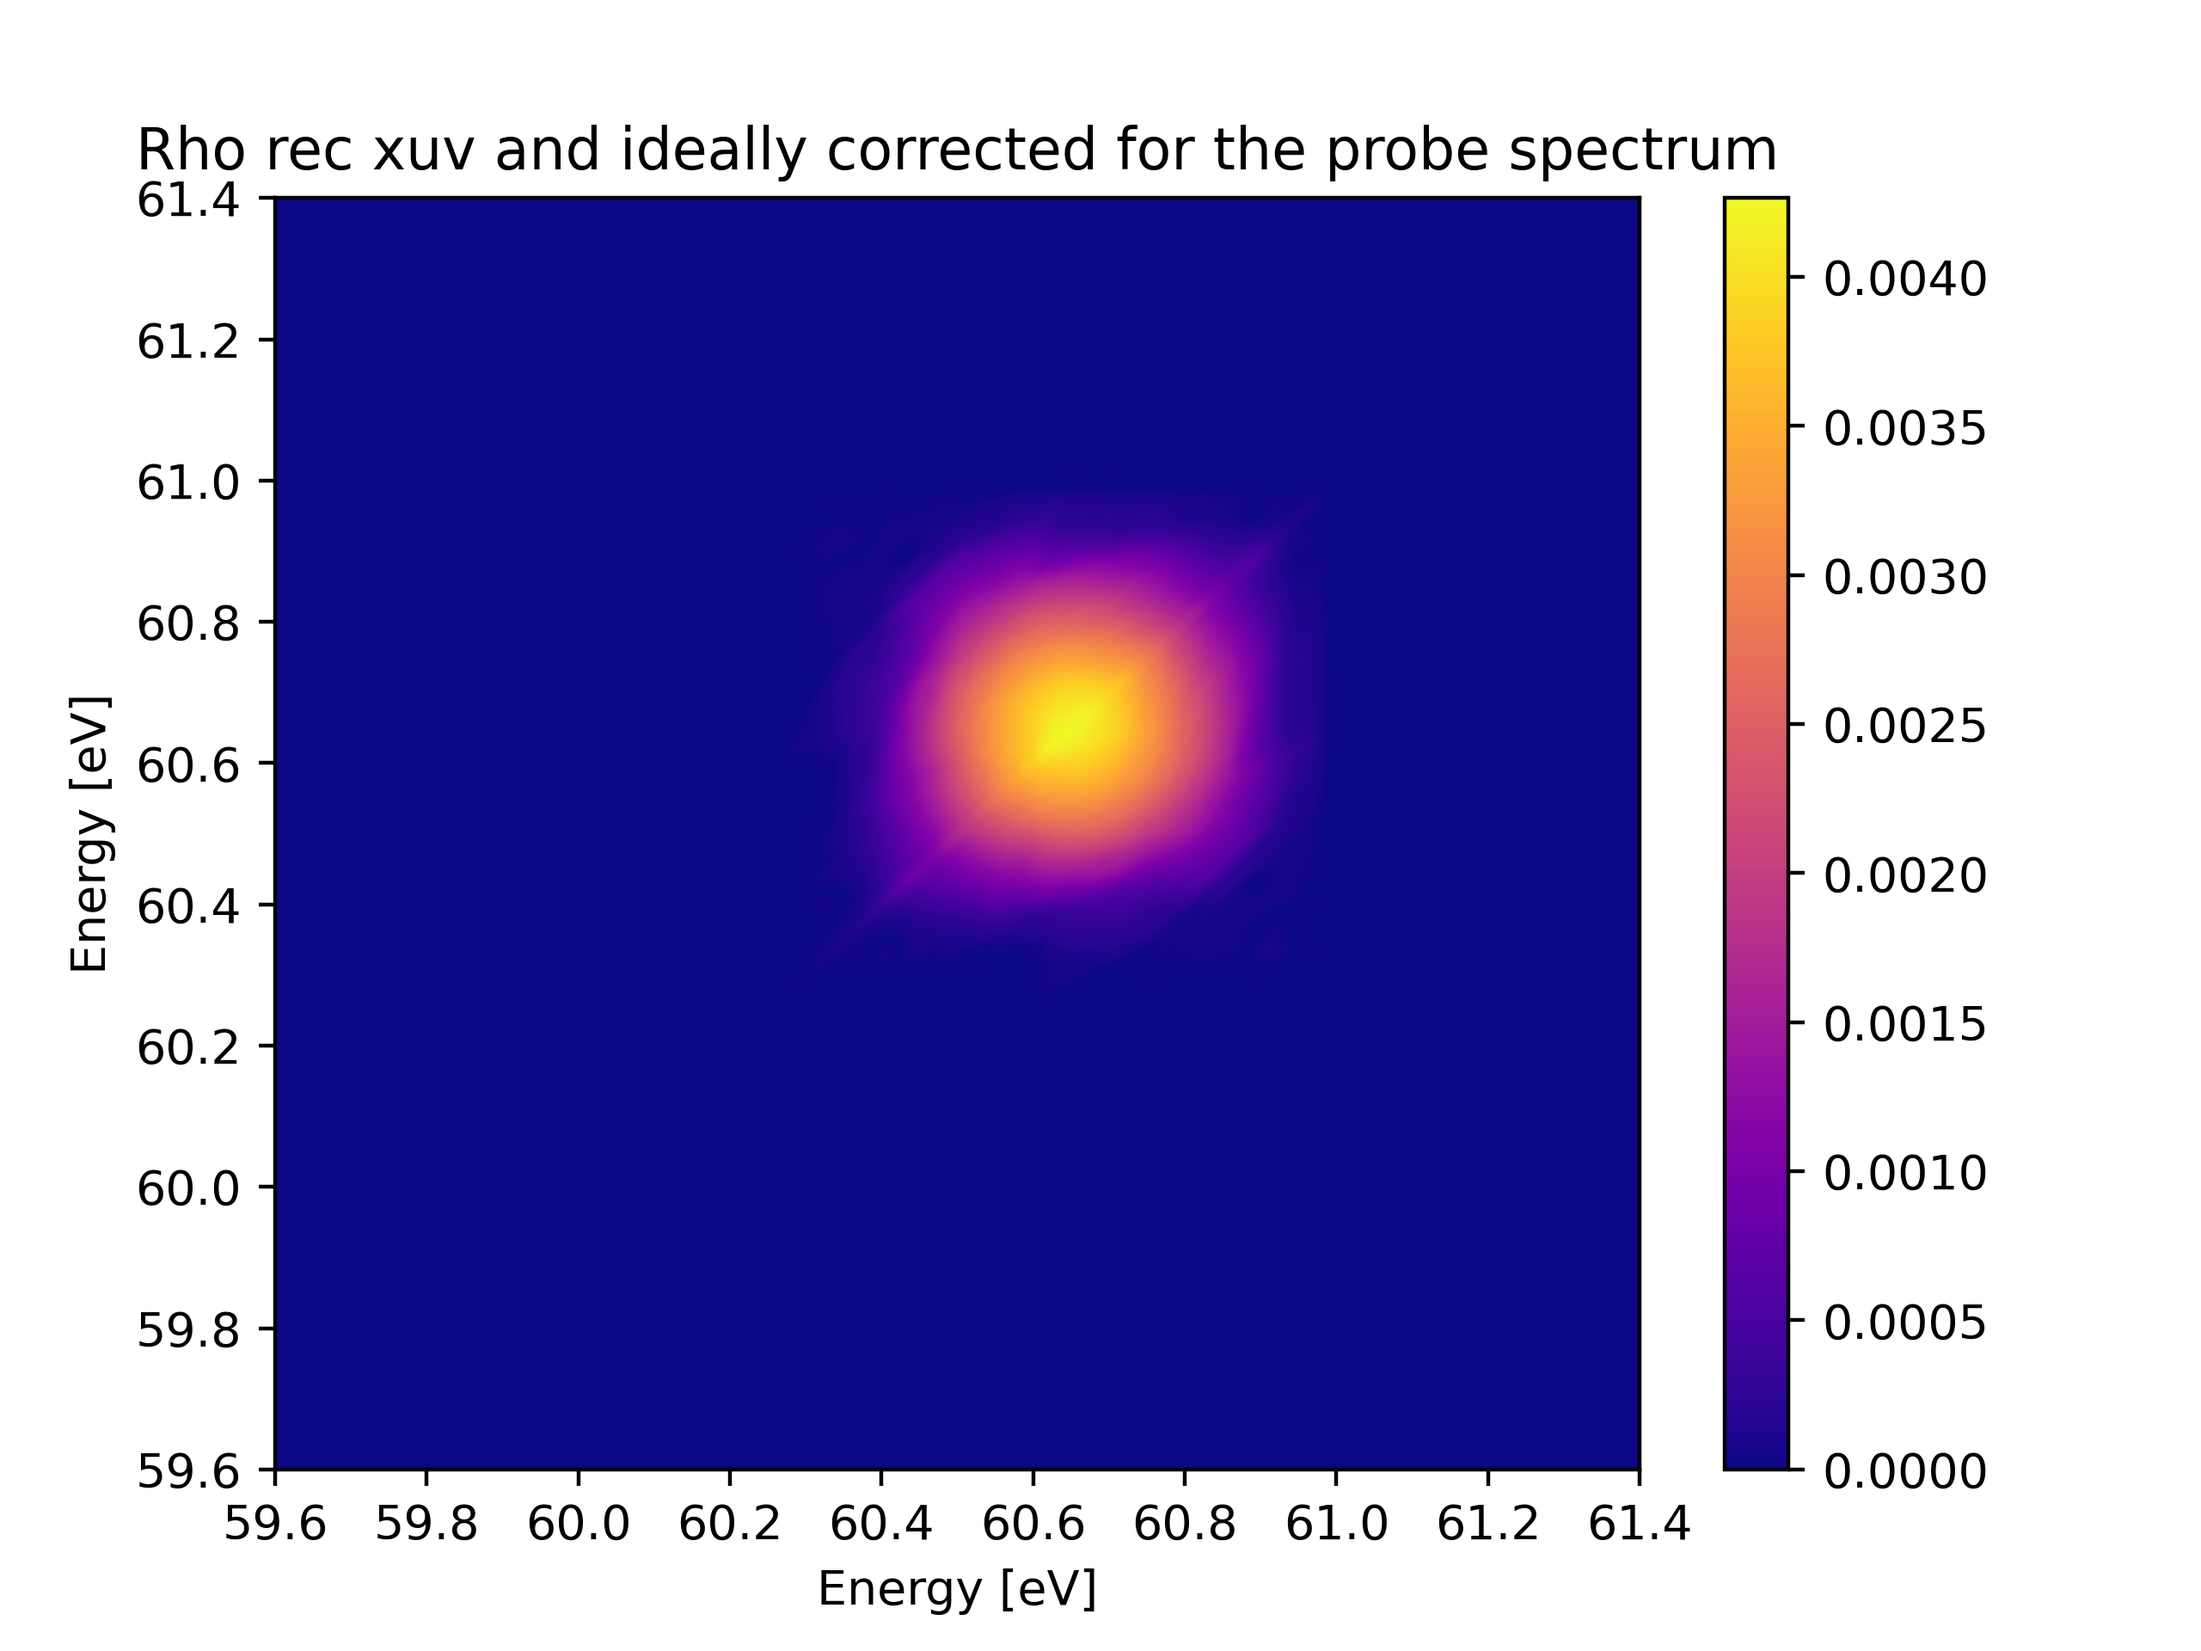
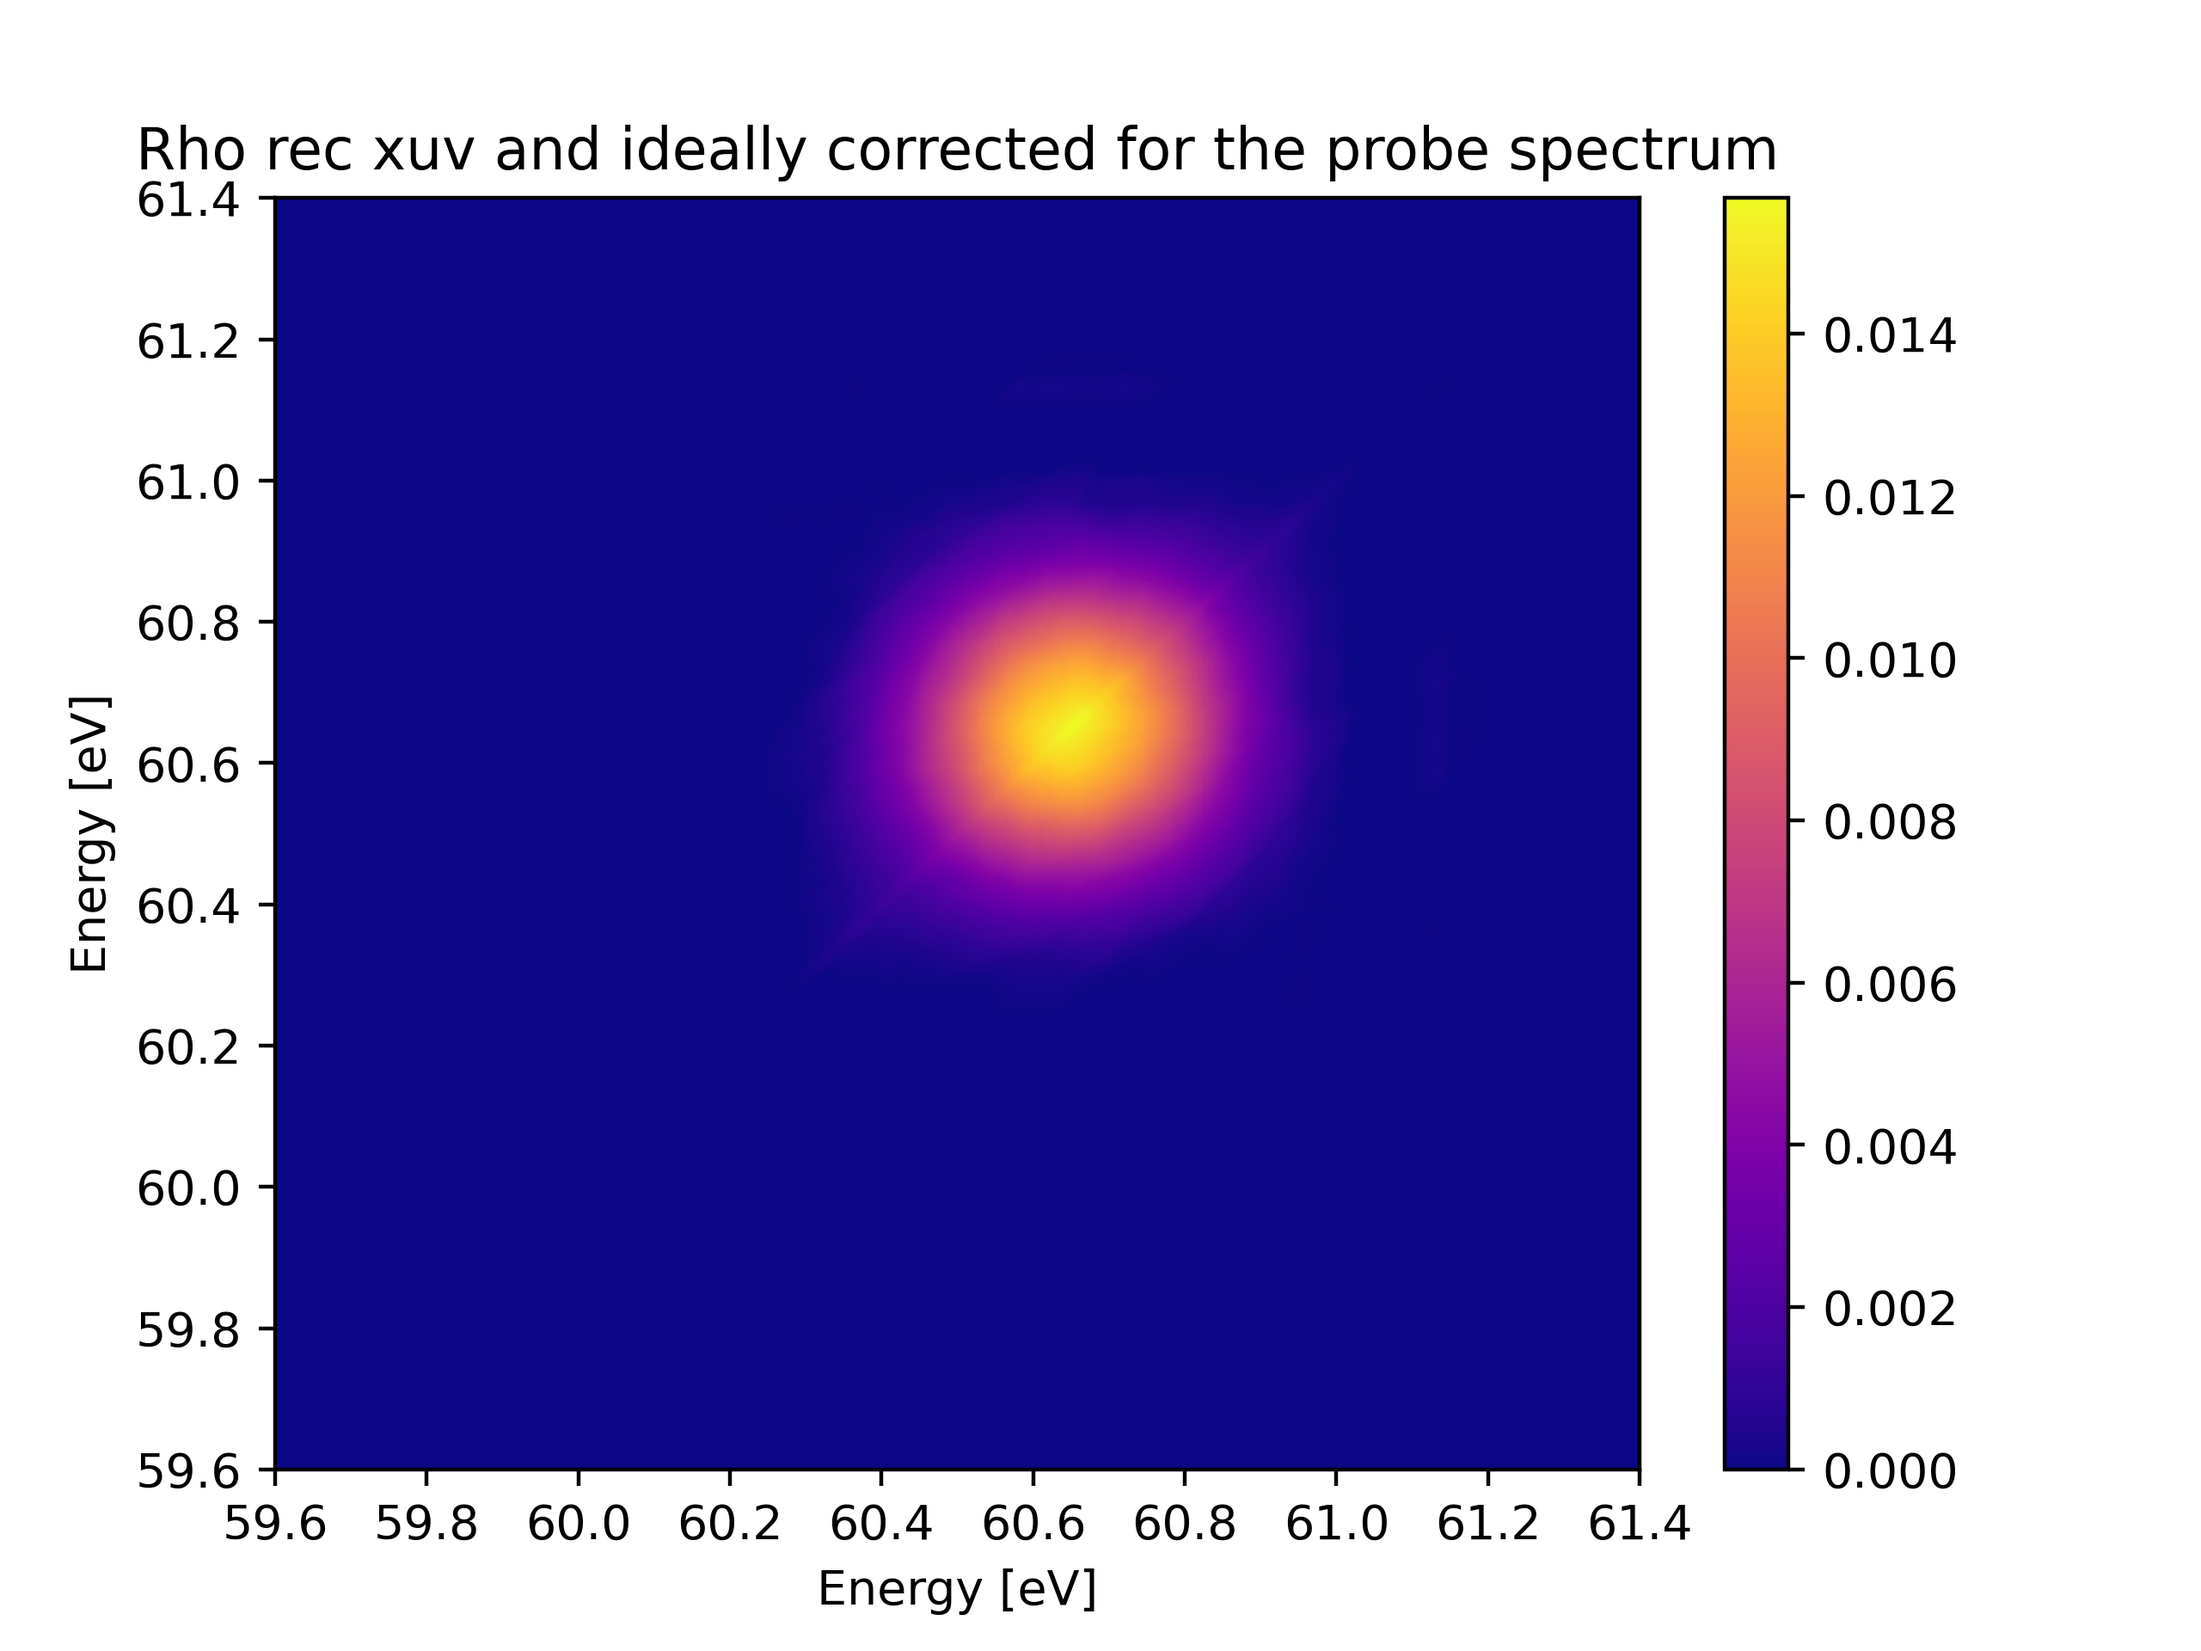
small changes

diff --git a/WF_pipeline.py b/WF_pipeline.py
@@ -499,7 +499,8 @@ def nfit_params_to_probes(params):
     return tuple(probes)
 
 def reconstruct_WirtFlow(sig_measrd,sp_probe,sp_xuv,om_probe,om_xuv,T,b_est,
-                         n_power_iter=50,n_main_iter=10000,ifplot=50,naive_init=None,median_regval=2,logdiff_thresh=-0.015):
+                         n_power_iter=50,n_main_iter=10000,ifplot=50,naive_init=None,
+                         median_regval=2,lastmax_margin=200,ifwait=True,alph=0,nt=0):
 
     n_t, n_e = sig_measrd.shape
 
@@ -533,9 +534,7 @@ def reconstruct_WirtFlow(sig_measrd,sp_probe,sp_xuv,om_probe,om_xuv,T,b_est,
 
     ers = []
     mus = []
-
-    dcrs_len = 200
-    dcrs_bin = 40
+    coarse_bin = 10
 
     for i_iter in range(n_main_iter):
 
@@ -561,7 +560,7 @@ def reconstruct_WirtFlow(sig_measrd,sp_probe,sp_xuv,om_probe,om_xuv,T,b_est,
 
         print(i_iter)
 
-        if i_iter%int(ifplot)==0 and bool(ifplot):
+        if i_iter%int(ifplot)==ifplot-1 and bool(ifplot):
             fig, axes = plt.subplots(2, 1, figsize=(8, 6))
             
             # fig, axes = plt.subplots(3, 1, figsize=(8, 6))
@@ -601,21 +600,15 @@ def reconstruct_WirtFlow(sig_measrd,sp_probe,sp_xuv,om_probe,om_xuv,T,b_est,
                 )
 
             plt.tight_layout()
-            plt.savefig('spectrum_convergence_iter.png')
+            plt.savefig('scans/ims/spectrum_convergence_iter%.3f_%i.png'%(alph,nt))
             plt.close()
 
-            # Early stopping: if the last 200-step trend of 20-bin averages is strictly decreasing
-            # and the current value is at least 10x larger than the minimum recorded
-            if len(mus) >= dcrs_len:
-                last_len = np.abs(np.array(mus[-dcrs_len:]))
-                avgs = np.mean(last_len.reshape(-1, dcrs_bin), axis=1)
-                increase = np.insert(np.diff(avgs),0,-1e-20)/dcrs_bin/avgs
-                strictly_decreasing = np.all(0 >= increase) and np.all(increase > logdiff_thresh)
-                if strictly_decreasing and (mus[-1] >= np.min(mus)):
-                    print("Early stop: decreasing trend over last 200 steps and current μ >= min(μ).")
-                    break
+        if i_iter%coarse_bin == coarse_bin-1:
+            avgs = np.mean(np.abs(mus).reshape(-1, coarse_bin), axis=1)
+            if i_iter - np.argmax(avgs)*10 > lastmax_margin and avgs[-1] < avgs[-2] and (not ifwait or avgs[-1] > avgs[0]) :
+                break
 
-    return z
+    return z, ers[-1]
 
 def clip_amplitude(sig,c0,c1):
     amp = np.abs(sig)
@@ -1032,14 +1025,12 @@ b_est = np.mean(signal[:,floor(noise_area_Elo*N_E):floor(noise_area_Ehi*N_E)])
 
 signal -= b_est
 
-# plot_mat(signal)
+plot_mat(signal,extent=[E_lo,E_hi,-T_reach,T_reach])
 
 amplit_tot_FT, OM_T, em_lo, em_hi = CFT(T_range,signal,use_window=False)
 amplit_tot_FT_wndw, OM_T, em_lo, em_hi = CFT(T_range,signal,use_window=True)
 
-# import sgolay2
-# sg2 = sgolay2.SGolayFilter2(window_size=13,poly_order=3)
-# signal = sg2(signal)
+plot_mat(amplit_tot_FT_wndw,extent=[E_lo,E_hi,em_lo,em_hi])
 
 ###
 ### DETRENDING - SEPARATING PROBE AND REF ZERO FREQ COMPONENT 
@@ -1050,7 +1041,11 @@ slice_fracts = (0.5*(1 - em_axis_mid_reach/em_hi), 0.5*(1 + em_axis_mid_reach/em
 
 amplit_tot_FT_mid, em_axis_mid, i0, i1 = extract_midslice(amplit_tot_FT, slice_fracts, hbar*OM_T[:,0])
 
+plot_mat(amplit_tot_FT_mid,extent=[E_lo,E_hi,-em_axis_mid_reach,em_axis_mid_reach])
+
 amplit_tot_FT_mid_detrended, spike_only, spike_row_mid = detrend_spike(amplit_tot_FT_mid,em_axis_mid,0,2,plot=False)
+
+plot_mat(amplit_tot_FT_mid_detrended,extent=[E_lo,E_hi,-em_axis_mid_reach,em_axis_mid_reach])
 
 # Zero-pad the detrended mid-band to the full (ω, E) grid
 amplit_tot_FT_detrended_full = np.copy(amplit_tot_FT)
@@ -1132,6 +1127,8 @@ for j in range(N_E):
 phase = np.angle(amplit_tot_FT_detrended_full)
 amplit_tot_FT_detrended_full = amp_corr * np.exp(1j*phase)
 
+plot_mat(amplit_tot_FT_detrended_full,extent=[E_lo,E_hi,em_lo,em_hi])
+
 # pow_ana = np.abs(synth_bsln_FT)**2
 # pow_mes = np.abs(amplit_tot_FT_detrended_full)**2
 # plt.plot(np.mean(pow_ana[:1000,:],axis=0))
@@ -1140,9 +1137,9 @@ amplit_tot_FT_detrended_full = amp_corr * np.exp(1j*phase)
 
 sig_probe_reconstructed,_,_,_ = CFT(T_range,amplit_tot_FT_detrended_full,use_window=False,inverse=True)
 
-# plot_mat(sig_probe_reconstructed)
-# plot_mat(synth_bsln)
-# plot_mat((sig_probe_reconstructed - synth_bsln)/np.max(sig_probe_reconstructed))
+plot_mat(sig_probe_reconstructed)
+plot_mat(synth_bsln)
+plot_mat((sig_probe_reconstructed - synth_bsln)/np.max(sig_probe_reconstructed))
 
 ###
 ### XUV PEAK
@@ -1169,10 +1166,10 @@ sp_xuv_meas_sig_fit, sp_xuv_meas_sig_fit_params = fit_n_gaussians_1d(
 
 xuvs_rec = nfit_params_to_probes(sp_xuv_meas_sig_fit_params)
 
-# plt.plot(sp_xuv,label='true spec')
-# plt.plot(sp_xuv_meas_sig_fit,linewidth=0.65,linestyle='--',label='sig rec')
-# plt.legend()
-# plt.show()
+plt.plot(sp_xuv,label='true spec')
+plt.plot(sp_xuv_meas_sig_fit,linewidth=0.65,linestyle='--',label='sig rec')
+plt.legend()
+plt.show()
 
 
 ###
@@ -1197,8 +1194,10 @@ file = './rec_spectra/sp_probe.npy'
 
 sig_probe_reconstructed = sig_probe_reconstructed + b_est
 
-# sp_rec = reconstruct_WirtFlow(sig_probe_reconstructed,sp_probe,sp_xuv_meas_sig_fit,om_probe,om_xuv,T,b_est,n_power_iter=50,n_main_iter=3000,ifplot=50,median_regval=4,logdiff_thresh=-0.15)
-# np.save(file,sp_rec)
+sp_rec, lasterr = reconstruct_WirtFlow(sig_probe_reconstructed,sp_probe,sp_xuv_meas_sig_fit,om_probe,om_xuv,T,b_est,n_power_iter=50,
+                              n_main_iter=3000,ifplot=50,median_regval=4,lastmax_margin=np.sqrt(alpha)*700*np.sqrt(N_T/350),
+                              ifwait=False,alph=alpha,nt=N_T)
+np.save(file,sp_rec)
 
 sp_rec = np.load(file)
 

diff --git a/analyze.py b/analyze.py
@@ -3,11 +3,11 @@ import numpy as np
 from scipy.ndimage import median_filter
 
 
-sqerrs = np.load('scans/1dscans/sqerrs.npy')
-fid1s = np.load('scans/1dscans/fid1s.npy')
-fid2s = np.load('scans/1dscans/fid2s.npy')
-fid3s = np.load('scans/1dscans/fid3s.npy')
-fid4s = np.load('scans/1dscans/fid4s.npy')
+sqerrs = np.load('scans/1dscans/sqerrs80.npy')
+fid1s = np.load('scans/1dscans/fid1s80.npy')
+fid2s = np.load('scans/1dscans/fid2s80.npy')
+fid3s = np.load('scans/1dscans/fid3s80.npy')
+fid4s = np.load('scans/1dscans/fid4s80.npy')
 
 plt.plot(sqerrs)
 plt.show()
